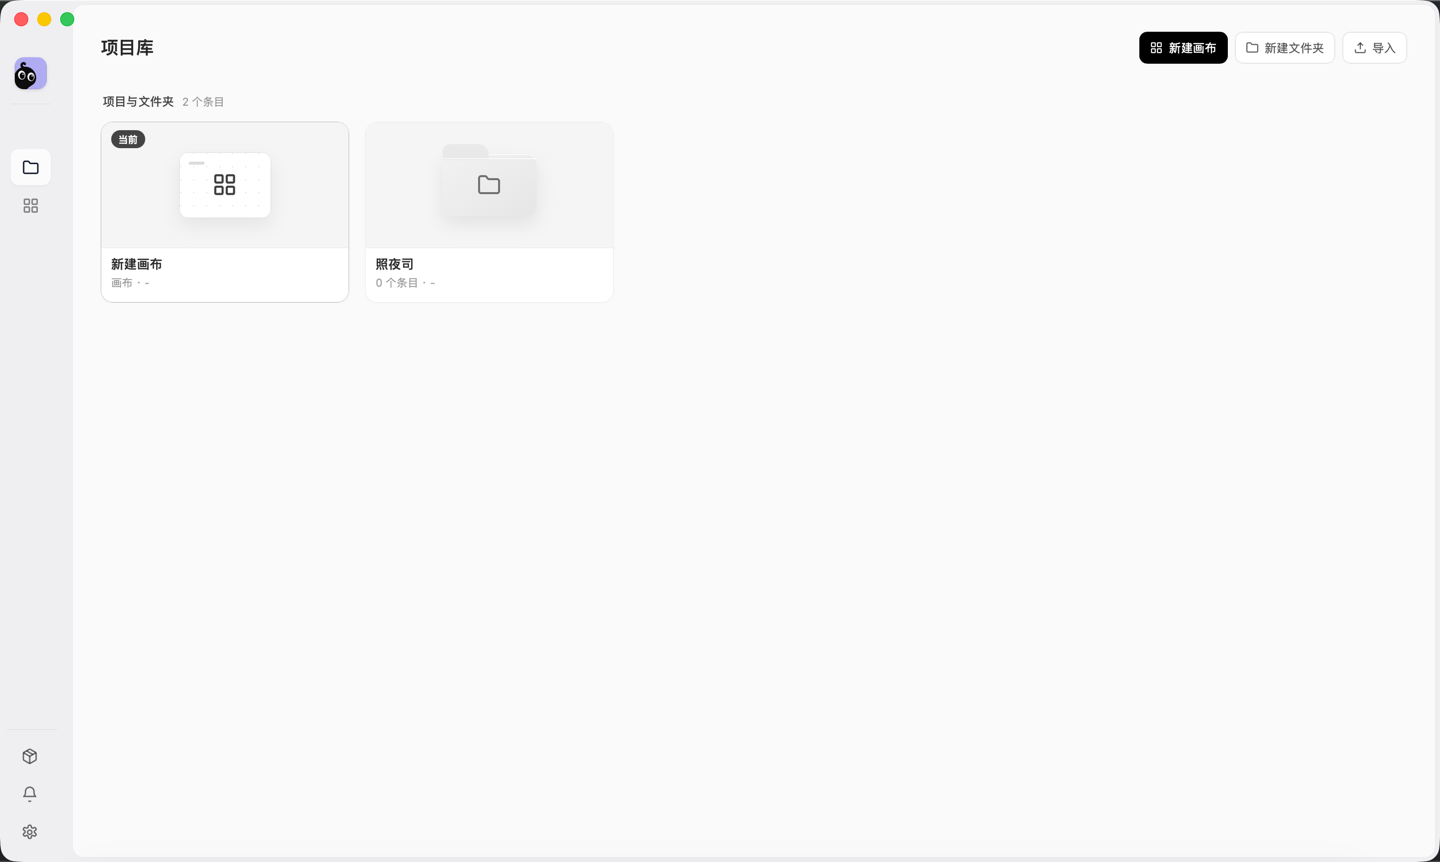
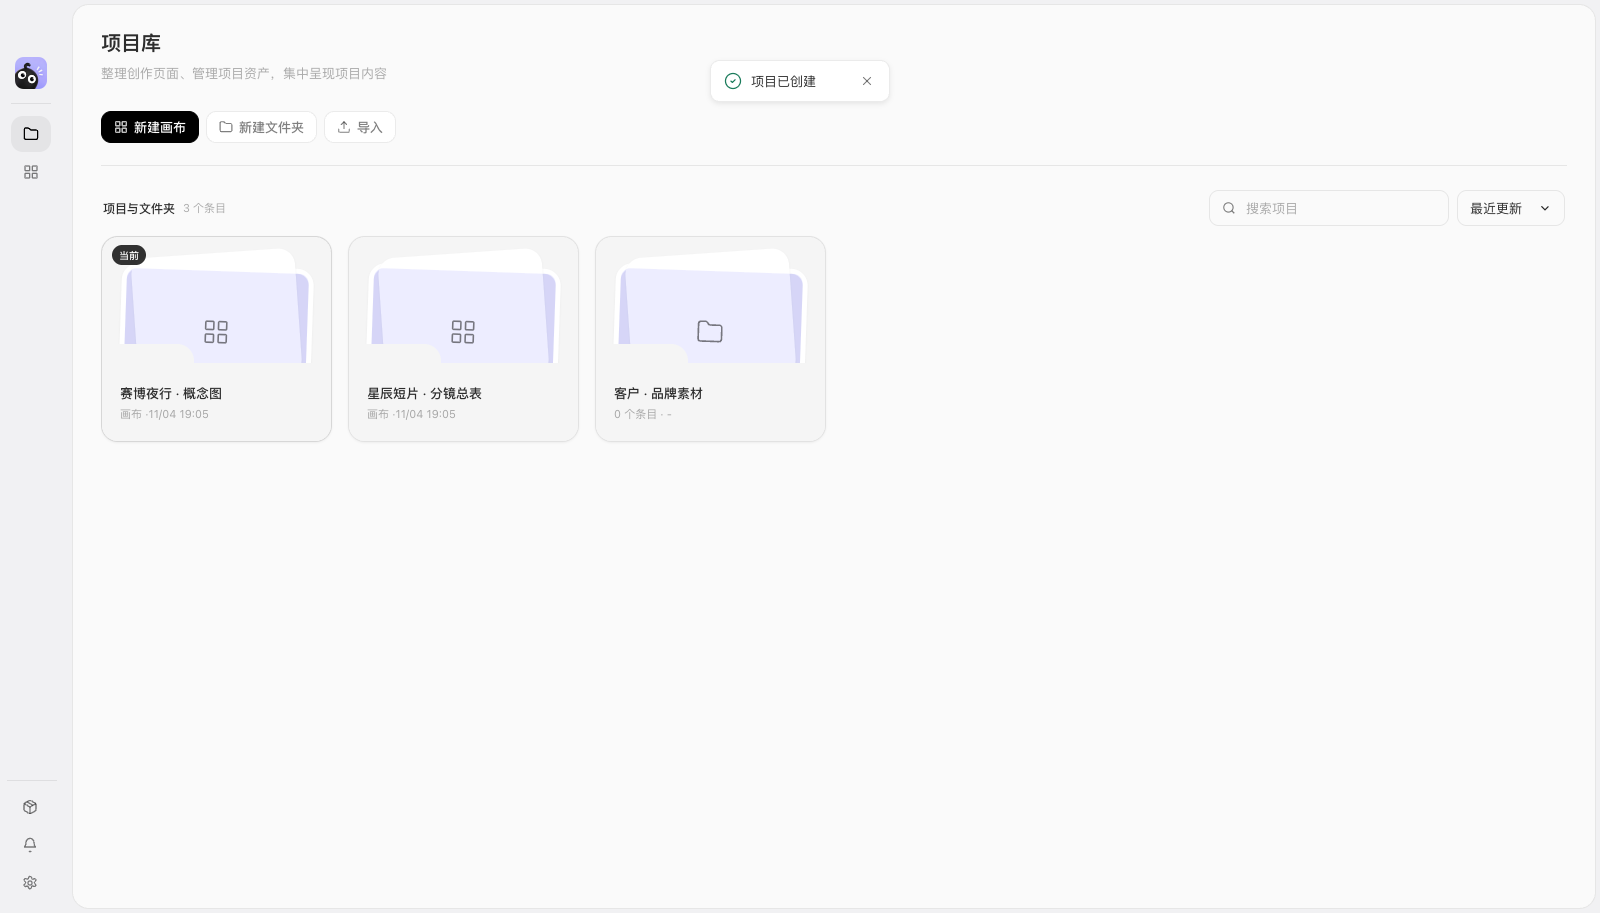
docs: refresh README layout, screenshots and library subtitle
README 重排间距与导航、统一命名，并用当前 UI 重新截图（含分区、显示设置、
节点创建菜单与 3D 导演台）；项目库副标改为描述页面真实能力。

diff --git a/README.md b/README.md
@@ -1,130 +1,118 @@
 <p align="center">
-  <img src="./src-tauri/icons/app.png" width="96" alt="Shotloom" />
+  <img src="./src-tauri/icons/app.png" width="96" alt="Shotloom">
 </p>
 
-<h1 align="center">织帧画布</h1>
+<h1 align="center">织帧画布 Shotloom</h1>
 
 <p align="center">
-  <strong>别让 AI 作品停留在聊天记录里。</strong>
-</p>
-
-<p align="center">
-  织帧画布 是面向 AI 影像创作者的桌面工作台——<br />
-  把散落的提示词、参考图、生成结果和创作意图，<br />
-  <strong>编织成一部真正可交付的作品</strong>，而不是散落各处、难以追溯的生成结果。
+  <strong>别让 AI 作品停留在聊天记录里。</strong><br>
+  面向 AI 影像创作者的桌面工作台——把散落的提示词、参考图、生成结果和创作意图，<br>
+  编织成一部真正可交付的作品。
 </p>
 
 <p align="center">
-  <a href="#-为什么是-shotloom">为什么是 Shotloom</a> ·
-  <a href="#-能力一览">能力一览</a> ·
-  <a href="#-界面预览">界面预览</a> ·
+  <a href="https://github.com/AstralFoundry/shotloom/releases/latest"><img src="https://img.shields.io/badge/version-0.8.1-7c5cff?style=flat-square" alt="Version"></a>
+  <img src="https://img.shields.io/badge/macOS%20Apple%20Silicon%20%C2%B7%20Windows%20x64-1a1a1a?style=flat-square" alt="Platform">
+  <a href="https://github.com/AstralFoundry/shotloom/actions/workflows/ci.yml"><img src="https://img.shields.io/github/actions/workflow/status/AstralFoundry/shotloom/ci.yml?branch=main&style=flat-square&label=CI" alt="CI"></a>
+  <a href="#-参与贡献"><img src="https://img.shields.io/badge/PRs-welcome-2ea44f?style=flat-square" alt="PRs welcome"></a>
+</p>
+
+<p align="center">
+  <a href="#-能力一览">能力</a> ·
+  <a href="#-界面预览">界面</a> ·
   <a href="#-快速开始">快速开始</a> ·
-  <a href="#-开发">开发</a>
+  <a href="#-开发">开发</a> ·
+  <a href="#-参与贡献">贡献</a>
 </p>
 
----
+![创作画布：节点、分区与 3D 导演台](./docs/images/img_1.png)
 
-<br />
+## 🤔 为什么是织帧画布
 
-![Shotloom 创作画布](./docs/images/img_1.png)
+用 AI 做影像创作，最难的从来不是「生成一张好图」，而是**第三张之后**——几十个版本在聊天窗口里来回滚动，参考图和结果散落在下载目录各处，你已经分不清哪个版本基于哪条提示词、用了哪张参考图，该进剪辑还是进废纸篓。
 
-<br />
+于是你打开剪辑软件，把勉强选出的几段拖进去，发现风格不统一、构图接不上——回到聊天窗口，再生成几版。循环往复。
 
-## 🤔 为什么是 织帧画布
+**织帧画布把这个循环变成一条直线。**
 
-用 AI 做影像创作，最难的其实不是「生成一张好图」。
+| 你现在的困境 | 织帧画布的做法 |
+| :-- | :-- |
+| 提示词散落在聊天记录里 | 每个节点记录完整的提示词、参数与来源 |
+| 素材堆满下载文件夹 | 素材自动归属项目，始终可预览、可溯源 |
+| 说不清 A 图和 B 图的关系 | 连线表达参考、迭代与依赖，整条链路一眼看清 |
+| 生成归生成，剪辑归剪辑 | 从灵感到导出，在同一个工具里走完 |
+| AI 助手对项目一无所知 | 助手直接读取画布上下文，给针对性建议 |
 
-真正困难的，是**第三张之后**——当你生成了几十个版本，灵感在聊天窗口里来回滚动，参考图和结果散落在下载目录的各个角落，你已经分不清哪个版本是基于哪条提示词、用了哪张参考图、应该进剪辑还是进废纸篓。
+它不是又一个 AI 生图工具，而是 AI 影像创作缺失的那一层。
 
-然后你打开剪辑软件，把勉强选出的几段拖进去，发现风格不统一、构图接不上——于是回到聊天窗口，再生成几版。循环往复。
-
-**织帧画布 把这个循环变成一条直线。**
-
-| 你现在的困境 | 织帧画布 的做法 |
-|---|---|
-| 提示词散落在聊天记录里 | 画布上的每个节点记录完整的提示词、参数与来源 |
-| 生成的素材堆满下载文件夹 | 素材自动归属到项目，始终可预览、可溯源 |
-| 不知道 A 图和 B 图是什么关系 | 连线表达参考、迭代与依赖，一眼看清整条链路 |
-| 生成归生成，剪辑归剪辑 | 从灵感到导出，在一个工具里自然走完 |
-| AI 助手对你的项目一无所知 | 助手直接读取画布上下文，给你针对性建议 |
-
-**织帧画布 不是又一个 AI 生图工具。** 它是 AI 影像创作缺失的那一层——把提示词、素材、生成和后期串起来的工作台。
-
-<br />
-
-## 🎯 能力一览
+## ✨ 能力一览
 
 <table>
   <tr>
-    <td width="50%">
+    <td width="50%" valign="top">
       <h3>🎨 可视化创作画布</h3>
-      <p>像整理创意墙一样组织整条制作链路。文本、图片、视频、音频节点自由排布，连线表达上下文和依赖关系。支持缩放、框选、多选、拖拽、撤销、自动布局——以及直接拖入本地素材并即时预览。</p>
+      文本、图片、视频、音频节点自由排布，连线表达上下文与依赖。支持缩放、框选、多选、拖拽、撤销、自动布局，以及<strong>分区</strong>与<strong>显示设置</strong>——把复杂项目按段落切开，按你的习惯呈现。
     </td>
-    <td width="50%">
-      <h3>🤖 AI 创作助手</h3>
-      <p>不是通用聊天机器人。助手能读取你当前项目和画布内容，理解你在做什么、做到哪一步了。它能创建和连接节点、分析创作瓶颈、配合 Skill 和生成策略帮你把这一步走完——你看到的不是一段回复，而是画布上多出来的那几张图。</p>
+    <td width="50%" valign="top">
+      <h3>🤖 Agent 创作助手</h3>
+      基于官方 <strong>Harness</strong> Agent 运行时，读取当前项目与画布上下文，知道你在做什么、做到哪一步。它会创建节点、分析瓶颈、配合 Skill 推进这一步——你看到的不是一段回复，而是画布上多出来的那几张图。
     </td>
   </tr>
   <tr>
-    <td width="50%">
+    <td valign="top">
       <h3>🌀 多模态生成</h3>
-      <p>文字构思 → 静态画面 → 动态镜头 → 声音。在同一个工作区里衔接不同模态的模型。支持文本、图片、视频和音频模型，可配置不同 API 厂商和参数。参考图和视频输入直接来自画布上的节点，生成结果自动回到项目中。</p>
+      文字构思 → 静态画面 → 动态镜头 → 声音。文本、图片、视频、音频模型在同一工作区衔接，参考输入直接来自画布节点，生成结果自动回到项目。
     </td>
-    <td width="50%">
+    <td valign="top">
       <h3>📦 项目与素材管理</h3>
-      <p>素材不再是无家可归的文件。素材设定（人物的外貌、场景的风格）和真实素材文件分开管理，支持项目内素材和本机通用素材。导入一个项目包，它就真的是一个完整的项目——不是一堆需要手动整理的文件夹。</p>
+      素材设定（人物外貌、场景风格）与真实素材文件分开管理，支持项目内素材与本机通用素材。导入一个项目包，它就真的是一个完整项目。
     </td>
   </tr>
   <tr>
-    <td width="50%">
+    <td valign="top">
       <h3>🎬 3D 导演台</h3>
-      <p>在生成之前，先想清楚机位、空间和角色关系。在三维场景中摆放角色、道具和摄影机，用画布上游的图片做场景参考。导出构图结果，继续用于后续节点——生成不再是开盲盒。</p>
+      生成之前先想清楚机位、空间与角色关系。在三维场景中摆放角色、道具和摄影机，用上游图片做场景参考，导出构图结果继续用于后续节点。
     </td>
-    <td width="50%">
-      <h3>✂ 视频编辑器</h3>
-      <p>生成不是终点。多轨时间线、连续视频主轨、字幕、贴图、转场、画面变换、音量控制——在同一个应用里把可用镜头变成成片。最终直接从桌面导出视频文件。</p>
+    <td valign="top">
+      <h3>✂ 剪辑节点</h3>
+      剪辑能力以<strong>独立节点</strong>形态长在画布上：多轨时间线、字幕、贴图、转场、画面变换、音量控制，选中即在节点上方浮出 16:9 预览，也可展开为全屏剪辑台并直接导出。
     </td>
   </tr>
 </table>
 
-<br />
+画布上的一切都是一个节点，连线即上下文：
+
+| 类别 | 节点 | 作用 |
+| :-- | :-- | :-- |
+| 生成 | `textGeneration` | 剧本、策划案、提示词 |
+| 生成 | `imageGeneration` | 静态画面，支持参考图与裁剪标注 |
+| 生成 | `videoGeneration` | 动态镜头 |
+| 生成 | `audioGeneration` | 配音与声音 |
+| 工具 | `clipStudio` | 内嵌剪辑台，时间线即节点 |
+| 工具 | `threeDDirector` | 3D 导演台，机位与空间预演 |
+| 资源 | `resource` | 拖入的本地素材，可预览可溯源 |
+| 组织 | `canvasSection` | 分区，把节点按段落归组 |
 
 ## 📸 界面预览
 
 <table>
   <tr>
-    <td width="50%">
-      <img src="./docs/images/img_2.png" alt="Shotloom 项目库" />
-      <p align="center"><strong>项目库</strong> — 创建、整理和打开本地项目</p>
-    </td>
-    <td width="50%">
-      <img src="./docs/images/img.png" alt="Shotloom 创作画布" />
-      <p align="center"><strong>创作画布</strong> — 组织节点、素材关系与生成任务</p>
-    </td>
+    <td width="50%"><img src="./docs/images/img_2.png" alt="项目库"><p align="center"><b>项目库</b> · 创建、整理和打开本地项目</p></td>
+    <td width="50%"><img src="./docs/images/img_5.png" alt="节点与生成配置"><p align="center"><b>节点与生成配置</b> · 右键画布创建节点，选择模型与参数</p></td>
   </tr>
   <tr>
-    <td width="50%">
-      <img src="./docs/images/img_3.png" alt="Shotloom 3D 导演台" />
-      <p align="center"><strong>3D 导演台</strong> — 预演摄影机、角色与空间关系</p>
-    </td>
-    <td width="50%">
-      <img src="./docs/images/img_4.png" alt="Shotloom 视频编辑器" />
-      <p align="center"><strong>视频编辑器</strong> — 剪辑、字幕、音效与导出</p>
-    </td>
+    <td><img src="./docs/images/img.png" alt="画布显示设置"><p align="center"><b>画布显示设置</b> · 背景样式与背景颜色</p></td>
+    <td><img src="./docs/images/img_3.png" alt="3D 导演台"><p align="center"><b>3D 导演台</b> · 预演摄影机、角色与空间关系</p></td>
   </tr>
 </table>
 
-<br />
+剪辑台与 Agent 助手依赖桌面运行时，暂未纳入以上截图。
 
 ## 🚀 快速开始
 
-### 你需要准备
+**下载**：到 [Releases](https://github.com/AstralFoundry/shotloom/releases/latest) 获取安装包，macOS 为 `.dmg`（Apple Silicon），Windows 为 `.exe`（x64）。
 
-- **Node.js** ≥ 22.19.0，**npm** ≥ 10
-- **Rust** stable toolchain
-- 对应平台的 [Tauri 2 系统依赖](https://v2.tauri.app/start/prerequisites/)
-
-### 三行跑起来
+**源码运行**需要 Node.js ≥ 22.19.0、npm ≥ 10、Rust stable，以及对应平台的 [Tauri 2 系统依赖](https://v2.tauri.app/start/prerequisites/)：
 
 ```bash
 git clone https://github.com/AstralFoundry/shotloom.git
@@ -132,59 +120,93 @@ cd shotloom
 npm ci && npm run dev
 ```
 
-首次启动会编译 Rust 依赖，泡杯咖啡等一会儿。后续启动就很快了。
-
-只想调试前端界面？
+首次启动会编译 Rust 依赖，稍等一会儿，后续启动就很快。只调前端：
 
 ```bash
 npm run dev:web
 ```
 
-开发服务允许最大 64 KiB 的请求头，兼容本机共享 Cookie 等较大的请求头；桌面开发也使用同一启动命令。若遇到 Vite 的 431 错误，更新后重启开发进程。仍然报错时，检查失败请求的 Cookie、Referer 等字段，清理对应站点不再使用的 Cookie。参见 [Vite 431 排查说明](https://vite.dev/guide/troubleshooting.html#_431-request-header-fields-too-large)。
+浏览器模式不提供文件系统、原生导出、剪辑运行时与 Agent 助手，完整体验请用桌面版。开发服务允许最大 64 KiB 请求头以兼容本机共享 Cookie；若遇到 Vite 431 错误，重启开发进程，仍报错则清理对应站点不再使用的 Cookie（参见 [Vite 排查说明](https://vite.dev/guide/troubleshooting.html#_431-request-header-fields-too-large)）。
 
-浏览器模式不提供文件系统访问、原生导出和本地运行能力，完整体验请用桌面版。
+**接上模型**：不接模型也能建项目和整理素材。要用生成节点或助手时，打开 **设置 → API 厂商**，添加厂商与凭据、配置模型协议，再为文本、图片、视频、音频分别指定默认模型。各厂商接口有差异，以官方 API 文档为准。
 
-### 接上模型
+## 📁 项目结构
 
-不接模型也能用来建项目和整理素材。要用生成节点或 AI 助手时：
-
-1. 打开左侧栏 **设置 → API 厂商**
-2. 添加厂商，填写 API 地址和凭据
-3. 配置模型协议与参数
-4. 为文本、图片、视频、音频分别选择默认模型
-
-不同厂商的接口有差异，以官方 API 文档为准。
-
-<br />
+```text
+shotloom/
+├─ renderer/            # React 前端（画布、剪辑、助手、设置）
+│  ├─ src/app/          # 界面与画布组件
+│  ├─ src/agent/        # Agent 契约、Prompt、工具
+│  ├─ src/domain/       # 图数据与节点模型
+│  ├─ src/store/        # 领域状态（domainReactivity）
+│  └─ styles/           # 全局样式与色阶令牌
+├─ src-tauri/           # Tauri 2 / Rust 桌面外壳与原生能力
+├─ harness/             # 官方 Harness Agent 运行时宿主与内嵌客户端
+├─ vendor/
+│  ├─ openreel/                 # 剪辑引擎源码（内嵌运行时）
+│  └─ storyai-3d-director-desk/ # 3D 导演台源码
+├─ scripts/             # 构建、发布与工程约束校验
+└─ tests/               # 回归测试
+```
 
 ## 🛠 开发
 
 | 命令 | 做什么 |
-|---|---|
+| :-- | :-- |
 | `npm run dev` | 启动 Tauri 桌面开发环境 |
 | `npm run dev:web` | 仅启动前端 dev server |
-| `npm run typecheck` | TypeScript 类型检查 |
-| `npm test` | 运行测试 |
+| `npm test` | 运行回归测试（100+ 文件，约 30s） |
 | `npm run check` | 类型检查 + 测试 |
-| `npm run build` | 构建前端资源 |
+| `npm run check:layers` | 模块分层与状态引擎边界校验 |
+| `npm run check:styles` | 样式分层与色阶令牌校验 |
+| `npm run check:i18n` | 文案键与参数校验 |
+| `npm run harness:test` | Harness 宿主测试 |
 | `npm run build:desktop` | 构建桌面应用 |
-| `npm run prepare:openreel` | 从 `vendor/openreel` 构建嵌入的剪辑器（产物在 `renderer/public/openreel`，已忽略） |
+| `npm run prepare:openreel` | 从 `vendor/openreel` 构建内嵌剪辑运行时 |
 
-> 首次 `dev` / `build` 会自动执行 `prepare:openreel`；它用 corepack 固定 pnpm 11 安装并构建 OpenReel，产物存在时按内容 hash 跳过。需要更新上游时替换 `vendor/openreel` 并保留 `apps/web/src/shotloom-*.ts/css` 覆盖文件。
+首次 `dev` / `build` 会自动执行 `prepare:openreel`：用 corepack 固定 pnpm 安装并构建 OpenReel，产物落在 `renderer/public/openreel`（已 gitignore），存在时按内容 hash 跳过。更新上游时替换 `vendor/openreel`，并保留 `apps/web/src/shotloom-*.ts|css` 这些宿主覆盖文件。
 
-### 技术栈
+## 🧱 技术栈
 
 | 层 | 选型 |
-|---|---|
+| :-- | :-- |
 | 桌面框架 | Tauri 2 / Rust |
-| 前端 | React 19 / TypeScript / Vite |
-| 画布 | React Flow |
-| 状态管理 | Zustand |
+| 前端 | React 19 · TypeScript · Vite 7 |
+| 画布 | `@xyflow/react`（React Flow v12） |
+| 领域状态 | 自研 `domainReactivity`（就地可变 + revision 通知） |
+| 界面状态 | Zustand（仅限 `app/` 与 `vendor/`） |
+| Agent 运行时 | 官方 Harness（ShadowRoot 隔离 + 原生 IPC + Tool Bridge） |
 | 3D 渲染 | React Three Fiber / Three.js |
-| 视频引擎 | OpenReel（vendored，iframe + postMessage 桥） |
+| 剪辑引擎 | OpenReel（vendored，ShadowRoot 内嵌运行时） |
+| 3D 导演台 | storyai-3d-director-desk（vendored，独立 HTML 入口 + iframe / postMessage 桥） |
+| 文案 | 自研 i18n 字典（中 / 英） |
+
+## 🏗 架构约定
+
+改动前建议先读 [AGENTS.md](./AGENTS.md)，这里摘要三条最容易踩的边界：
+
+- **模型负责判断，代码只守客观边界。** 意图理解、拆分粒度、制作质量交给 Agent；代码只强制权限、不可逆操作、数据真实性与完成声明。
+- **两套状态引擎，不混用。** 领域与持久状态走 `domainReactivity`；界面状态走 Zustand 且只允许出现在 `app/` 与 `vendor/`，由 `npm run check:layers` 把关。
+- **第三方源码只住 `vendor/`。** 导演台通过 iframe + postMessage 交互，剪辑运行时通过 ShadowRoot 内嵌，Harness 客户端同样不接管领域状态，三者都不导入产品 Store。
+
+## 🤝 参与贡献
+
+从 `develop` 切分支，完成后提 PR 回 `develop`；`main` 为发布分支。提交前本地跑一遍守门命令：
+
+```bash
+npm run check          # 类型检查 + 测试
+npm run check:layers   # 分层与状态引擎边界
+npm run check:styles   # 样式与色阶令牌
+```
+
+新增样式颜色请引用 `renderer/styles/tokens.css` 的具名色阶，不要写颜色字面量；涉及画布、Agent 工具或剪辑器的行为变更，请补一条对应的回归测试。
+
+## 📄 许可证
+
+仓库当前尚未声明 LICENSE 文件，默认保留所有权利。需要以特定许可证开源请先与维护者确认。
 
 ---
 
 <p align="center">
-  <sub>织帧画布 · Weave every shot into a production-ready story.</sub>
+  <sub>织帧画布 Shotloom · Weave every shot into a production-ready story.</sub>
 </p>
